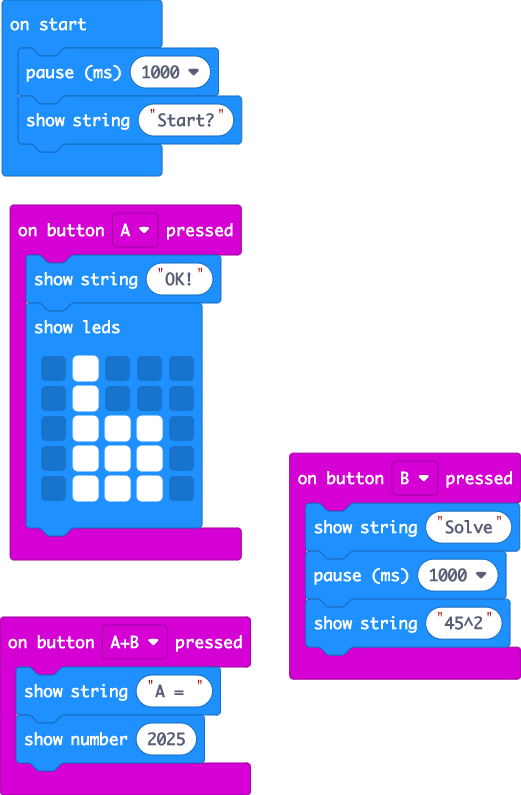
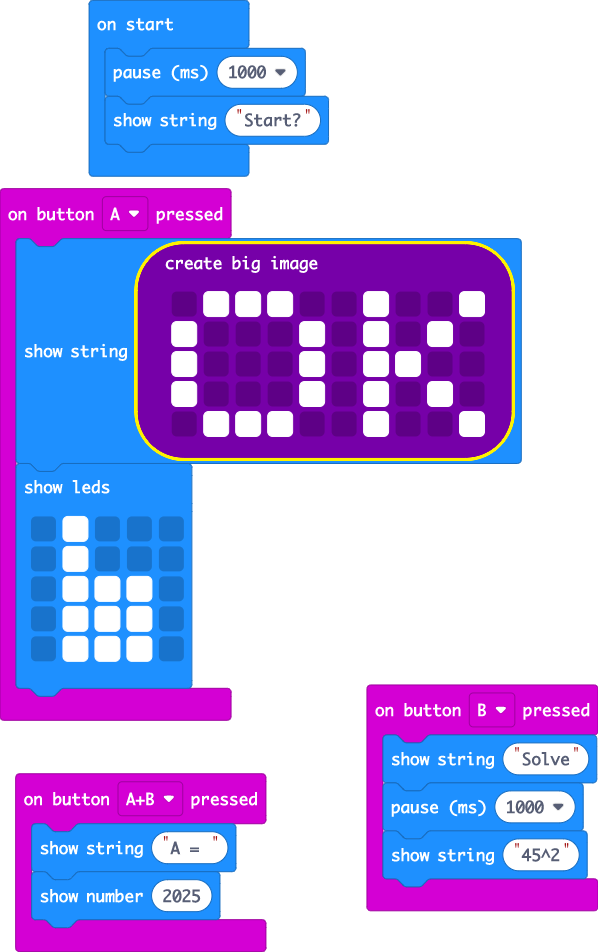
Update main.blocks, main.ts

diff --git a/main.ts b/main.ts
@@ -1,5 +1,11 @@
 input.onButtonPressed(Button.A, function () {
-    basic.showString("OK!")
+    basic.showString("" + (images.createBigImage(`
+        . # # # . . # . . #
+        # . . . # . # . # .
+        # . . . # . # # . .
+        # . . . # . # . # .
+        . # # # . . # . . #
+        `)))
     basic.showLeds(`
         . # . . .
         . # . . .
